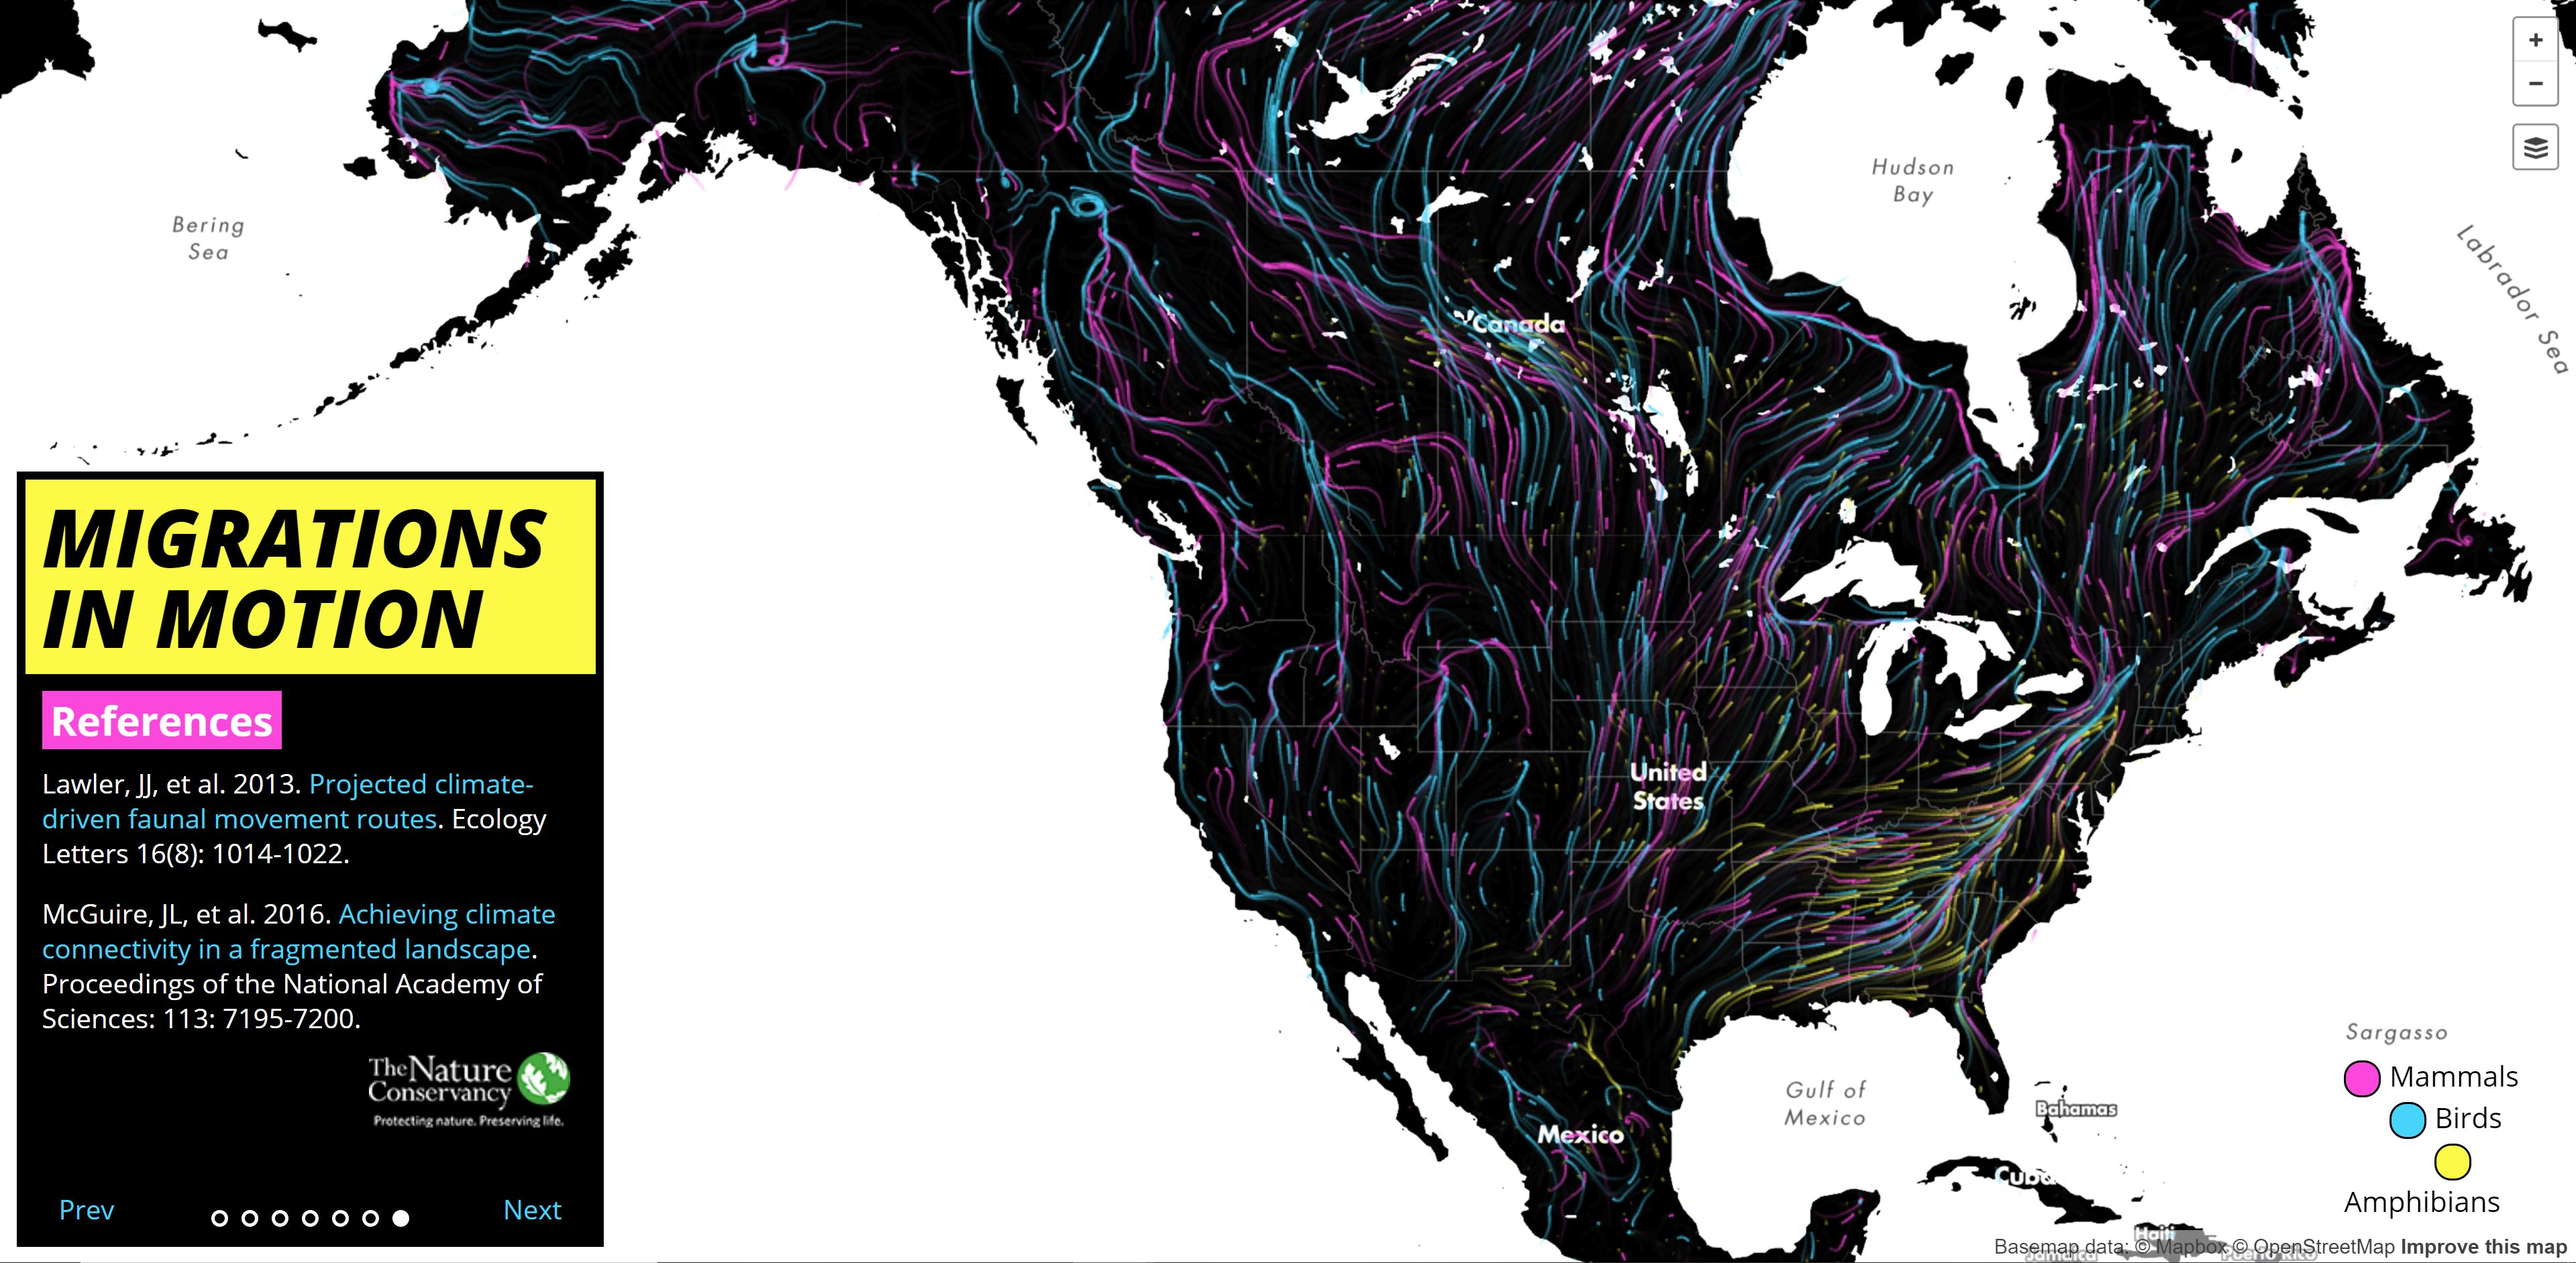
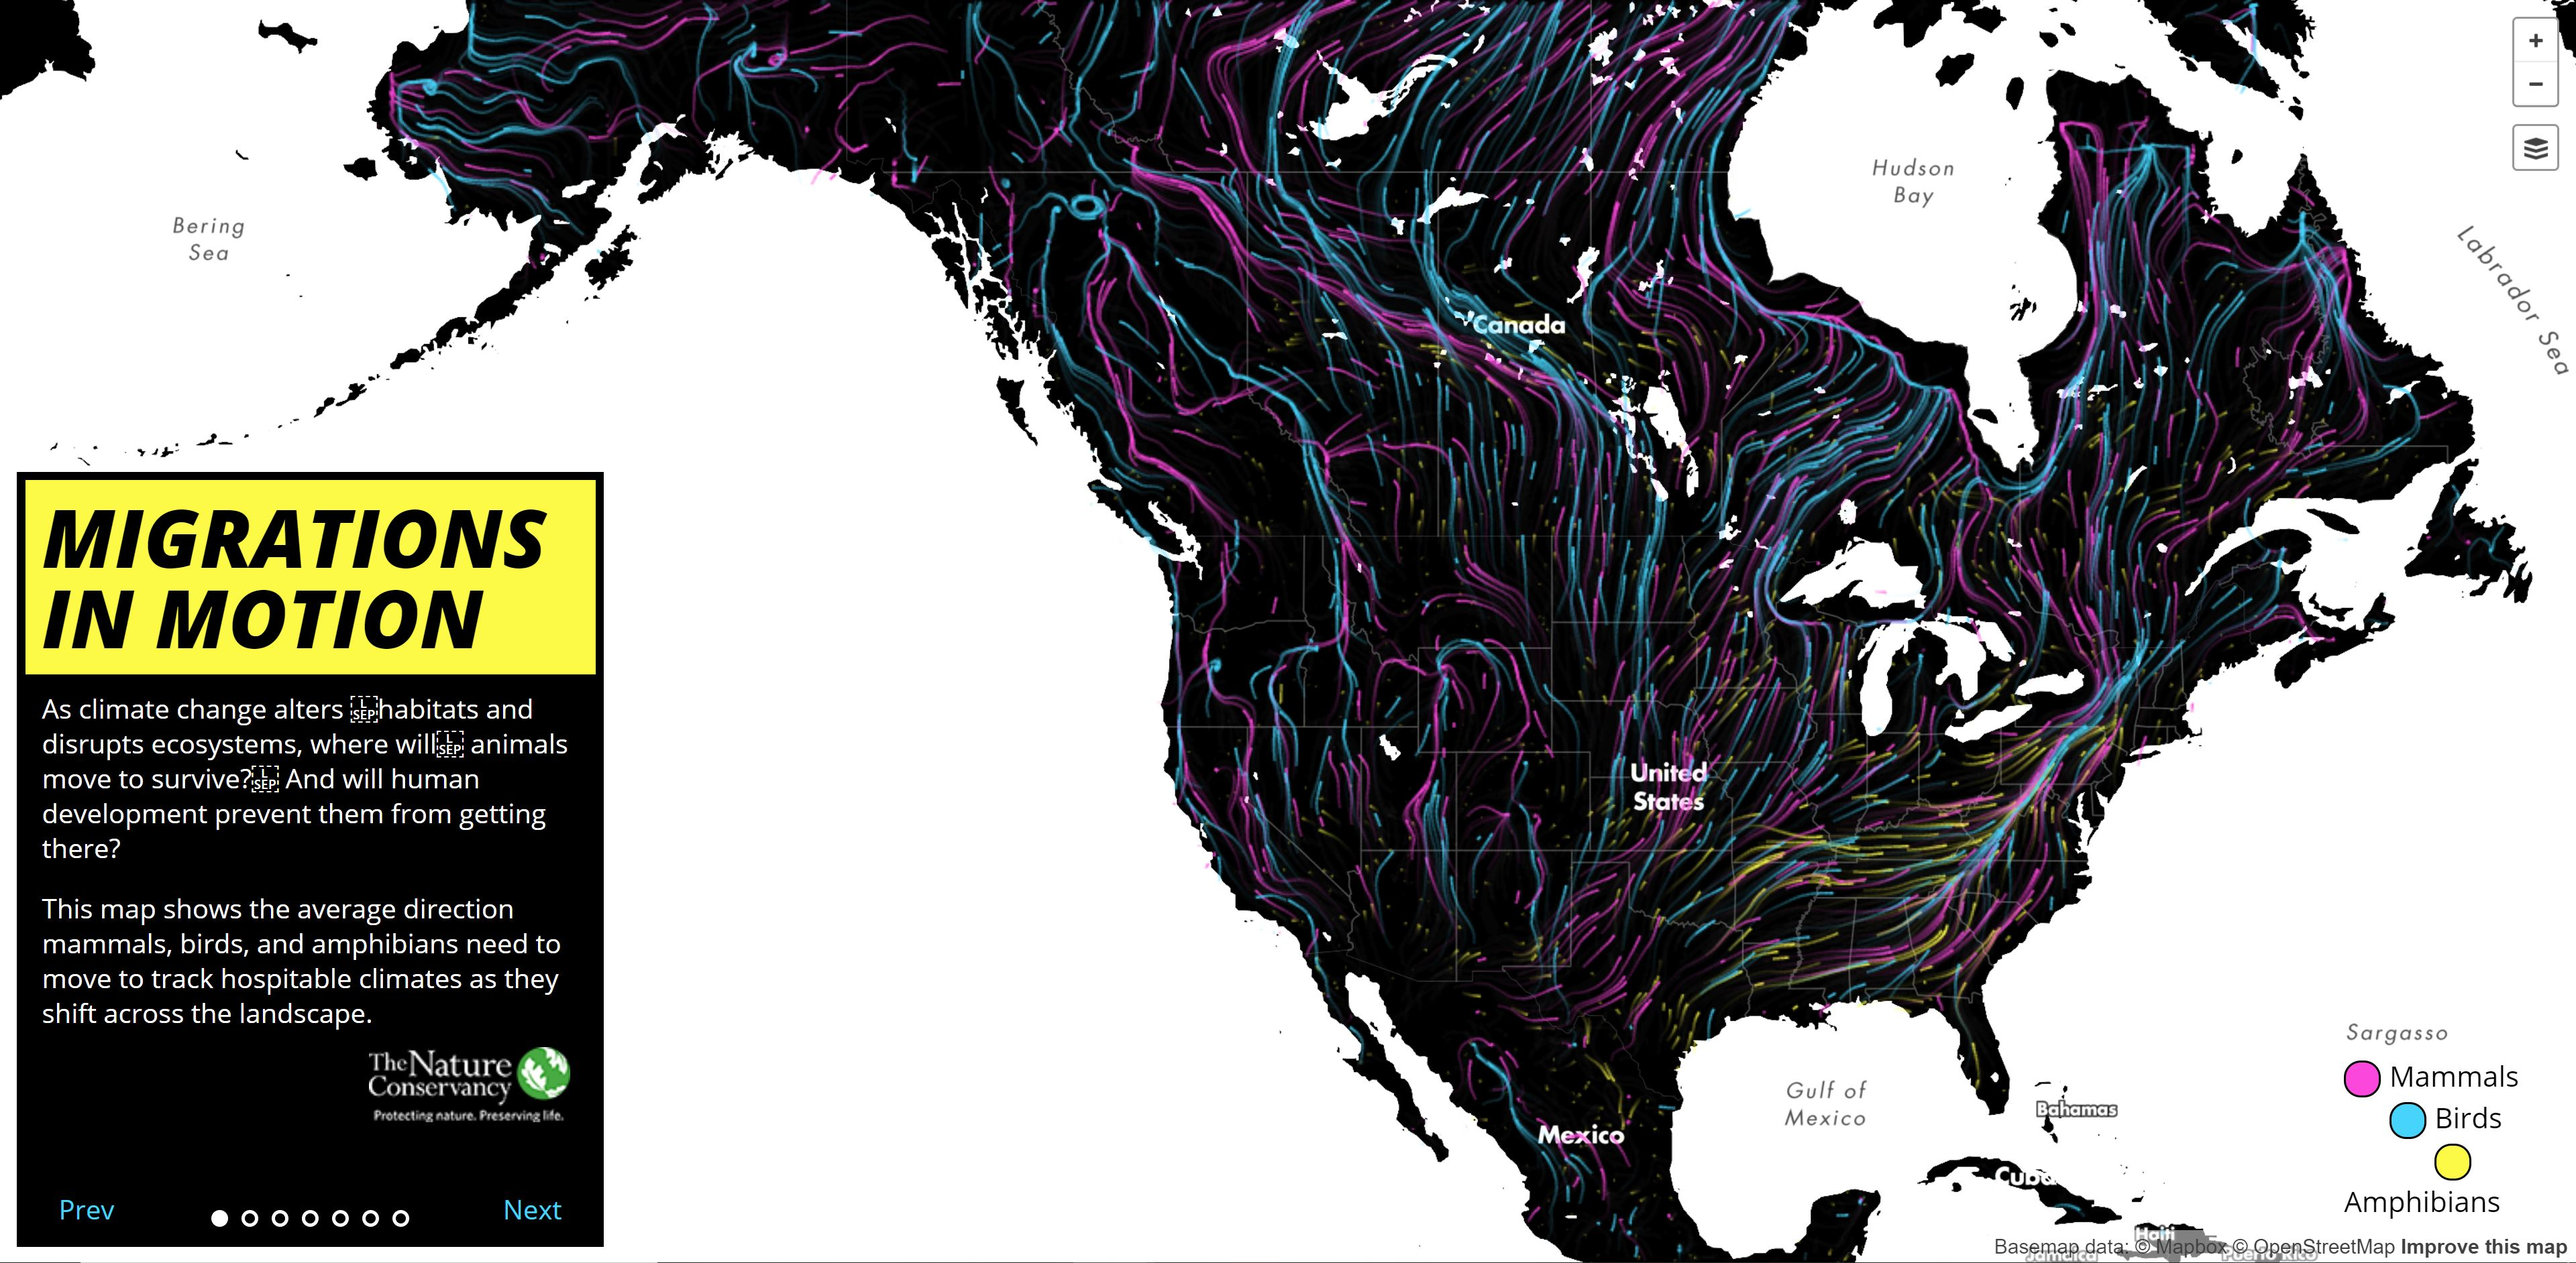
practice

diff --git a/README.md b/README.md
@@ -1,5 +1,26 @@
 # "Migrations in Motion" Web Map Essay
-<img src= 'img/Cover of Web Map.JPG'>
+<img src="img/Cover of Web Map.JPG"/>
+
 Caption: screenshot of the cover of the web map. Here is the [link to Web Map!](http://maps.tnc.org/migrations-in-motion/#4/45.58/-117.86)
 <br><br/>
-__Introduction__
+
+<h3> Introduction </h3>
+
+The goal of the map was to help scientists and the public see the changing habitat locations of thousands of vertebrates due to climate change. The predicted corridors for animal travel can then be used a reference for scientists and public figures to enact change and change construction methods to ensure these corridors are not completing blocked for the animals. The more the human landscape inhibits the travel of animals the more animals that will die from climate change because they are not able to travel to the new region with their needed climate for survival. As determined by examining the web map we are able to determine there are large migrations of animals from the South East of the United States to towards the North East. There are also multiple large migrations leaving the Brazil region. From the northern part of Brazil, a large migration is moving West out of the country. Another migration of a large number of animals from Southern Brazil is focused on moving South East closer to the coast of South America. A function of the map was to determine corridors with a large influx of animal migration. These three areas that from visually analyzing map seem to have the largest migrations that are predicted to occur. These areas need to be a focus for reform and transition from a human made environment that is almost impossible for animals to migrate through because of the fragmentation of the land from human construction. Humans need to begin preserving areas and routes that animals would be able to use in their effort to find a new habitat because climate change forced them to migrate. The target audience for this type of research is for scientists specifically those doing climate and animal research. Scientists are able to use these findings to support their research in the effects of climate change on animal migrations. Furthering the research and evidence that these events will occur scientists can help persuade change in the government to support city designs that conserve habitats that will be needed for animals that will be migrating to their areas to find a new suitable habitat. Also, convincing government and city designers to create human made features that decrease the fragmentation of the environment, which we are building upon. Fragmentation of habitat from human-made features could be the end for many vertebrates that will be migrating from increased temperatures in their current unhospitable habitats. Climate change will alter the ecosystems around the world and to be able to adapt and survive animals need to migrate. Humans can either help or hinder this inevitable event by maintaining connectivity between the environment's human made features fragment.
+
+<h3>Authors</h3>
+
+This web map was created by a combined effort between University of Washington and The Nature Conservancy. specifically, the map was created by Dan Majka who is a part of The Nature Conservancy's North America Region science team. The visualization of this web map was made possible using information from three previously produced works.
+1. wind map produced by HINT.FM
+
+  [Link to Map](http://hint.fm/wind/)
+
+2. earth wind map by cambecc's
+
+  [Link to Map](https://earth.nullschool.net/)
+
+3. Chris Helm's adaptation of cambecc's code
+
+  [Link to GitHub](https://github.com/FreshyLabs/windy)
+
+  
